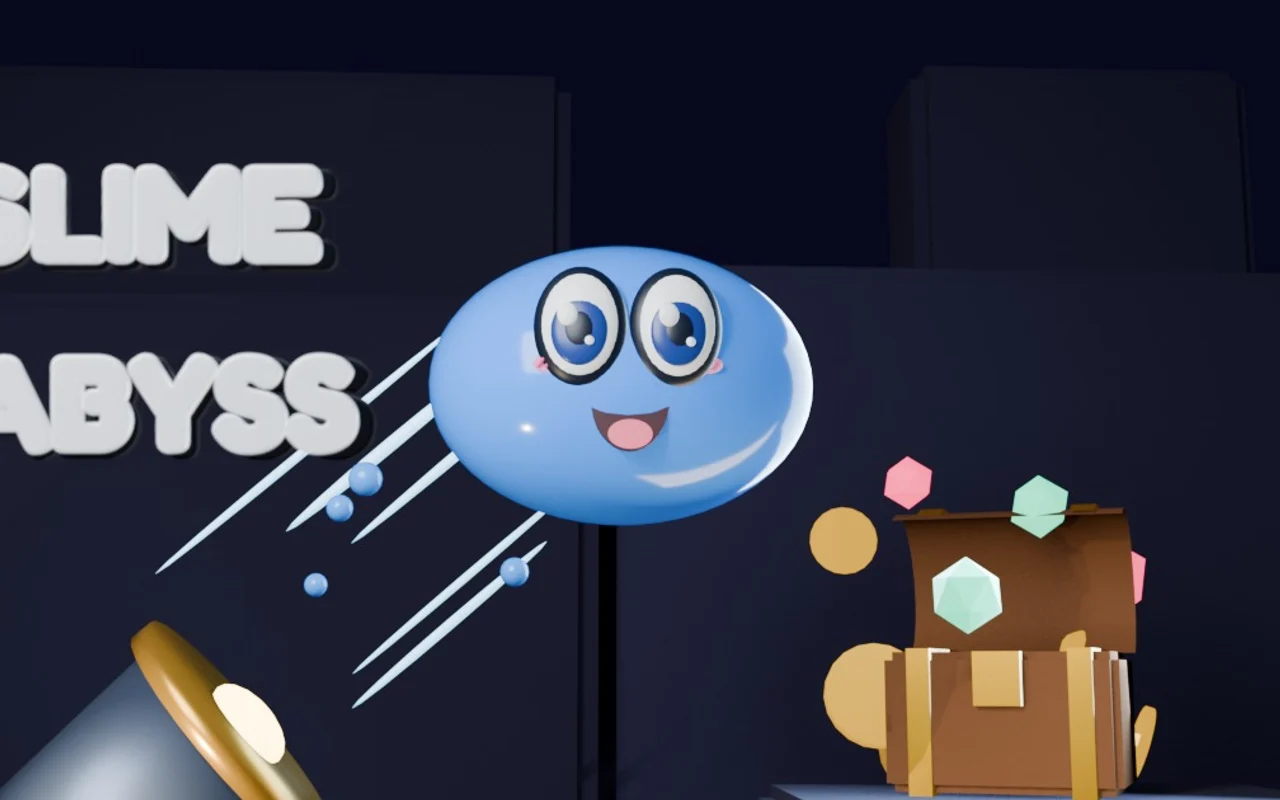
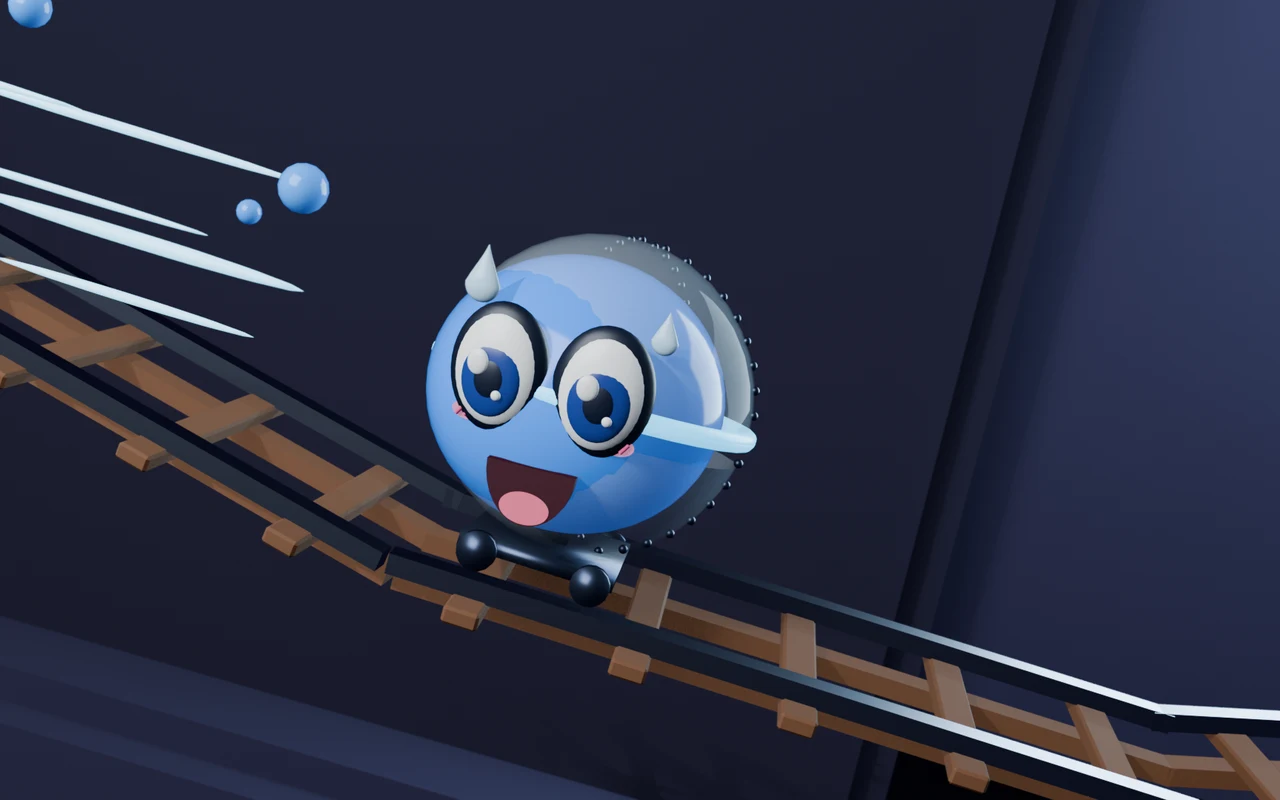
Portada de Slime Abyss: el render de la vagoneta
La imagen de compartir no funcionaba en la tarjeta. El repositorio del
juego ya guarda un render propio con el limo bajando en vagoneta por los
raíles, que enseña mejor de qué va el juego.

diff --git a/src/content/projects/es/slime-abyss.md b/src/content/projects/es/slime-abyss.md
@@ -9,7 +9,7 @@ published: true
 year: 2026
 status: "En desarrollo"
 cover: "/projects/slime-abyss/cover.webp"
-coverAlt: "El limo azul de Slime Abyss sale disparado de un cañón con cara de atracción de feria, con el cofre del tesoro al fondo y el logotipo del juego a la izquierda"
+coverAlt: "El limo azul de Slime Abyss baja a toda velocidad en una vagoneta por unos raíles de madera, en la oscuridad del abismo"
 gallery: []
 demoUrl: "https://slime-abyss.pages.dev/"
 technologies:

diff --git a/src/content/projects/en/slime-abyss.md b/src/content/projects/en/slime-abyss.md
@@ -9,7 +9,7 @@ published: true
 year: 2026
 status: "En desarrollo"
 cover: "/projects/slime-abyss/cover.webp"
-coverAlt: "The blue Slime Abyss slime shooting out of a cannon with a fairground-ride face, the treasure chest behind it and the game logo on the left"
+coverAlt: "The blue Slime Abyss slime racing down wooden rails in a mine cart, deep in the dark of the abyss"
 gallery: []
 demoUrl: "https://slime-abyss.pages.dev/"
 technologies:
